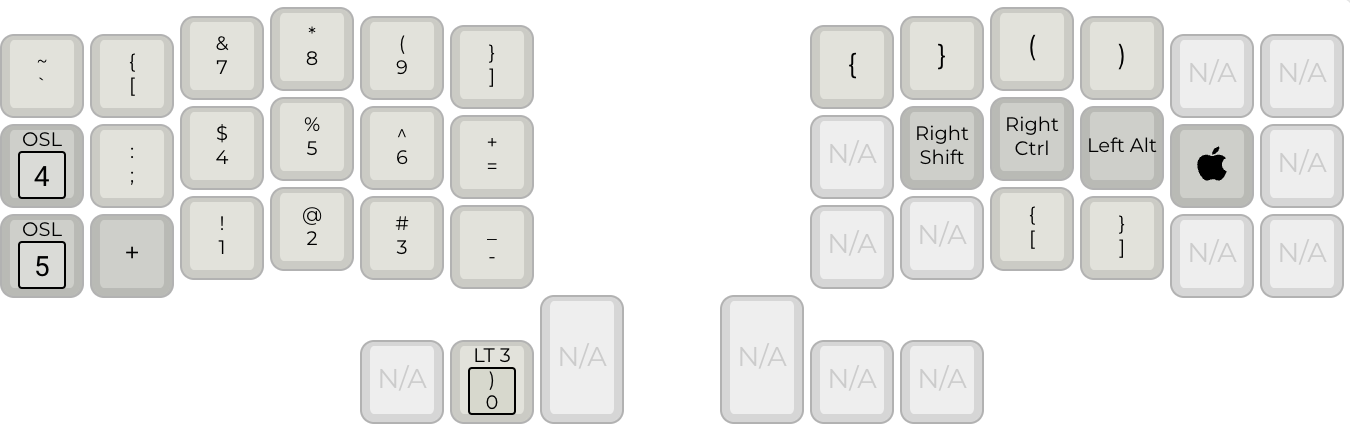
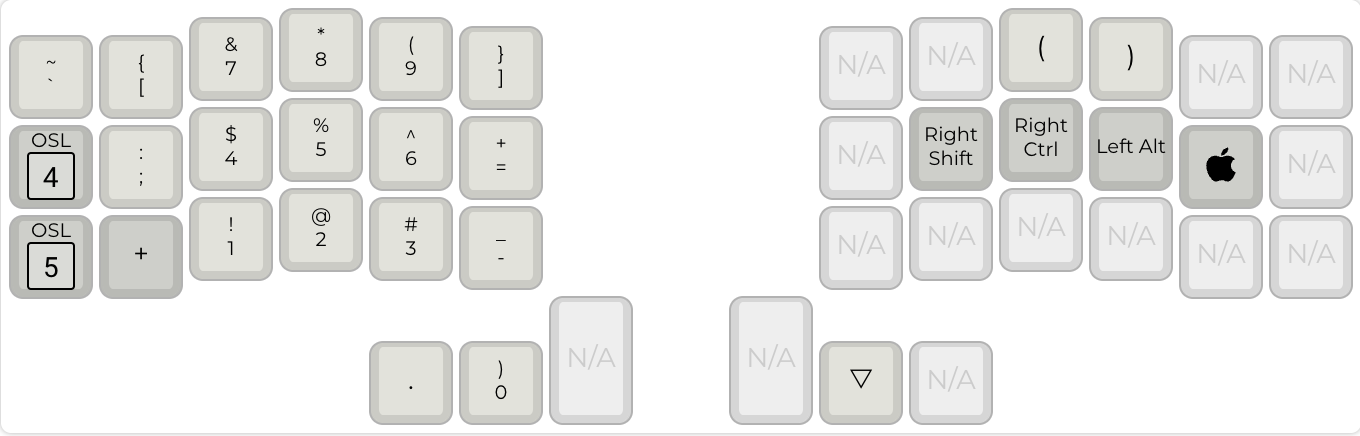
eliminate adjust layer

diff --git a/keymap.c b/keymap.c
@@ -29,7 +29,6 @@ enum layer_number {
   _NUM,
   _LAW,
   _FUNC,
-  _ADJUST,
 };
 
 // tap dance declarations
@@ -118,20 +117,9 @@ const uint16_t PROGMEM keymaps[][MATRIX_ROWS][MATRIX_COLS] = {
                                           _______, _______, DZ_NBSP,    _______, _______, _______
                                       //`--------------------------'  `--------------------------'
  
-  ),
-
-// todo delete this layer
-  [_ADJUST] = LAYOUT_split_3x6_3(
-  //,-----------------------------------------------------.                    ,-----------------------------------------------------.
-      QK_BOOT, XXXXXXX, XXXXXXX, XXXXXXX, XXXXXXX, XXXXXXX,                      XXXXXXX, XXXXXXX, XXXXXXX, XXXXXXX, XXXXXXX, XXXXXXX,
-  //|--------+--------+--------+--------+--------+--------|                    |--------+--------+--------+--------+--------+--------|
-      RGB_TOG, RGB_HUI, RGB_SAI, RGB_VAI, RGB_SPI, XXXXXXX,                      XXXXXXX, XXXXXXX, XXXXXXX, XXXXXXX, XXXXXXX, XXXXXXX,
-  //|--------+--------+--------+--------+--------+--------|                    |--------+--------+--------+--------+--------+--------|
-      RGB_MOD, RGB_HUD, RGB_SAD, RGB_VAD, RGB_SPD, XXXXXXX,                      XXXXXXX, XXXXXXX, XXXXXXX, XXXXXXX, XXXXXXX, XXXXXXX,
-  //|--------+--------+--------+--------+--------+--------+--------|  |--------+--------+--------+--------+--------+--------+--------|
-                                          _______, _______, _______,    _______, _______, _______
-                                      //`--------------------------'  `--------------------------'
   )
+
+
 
 };
 
